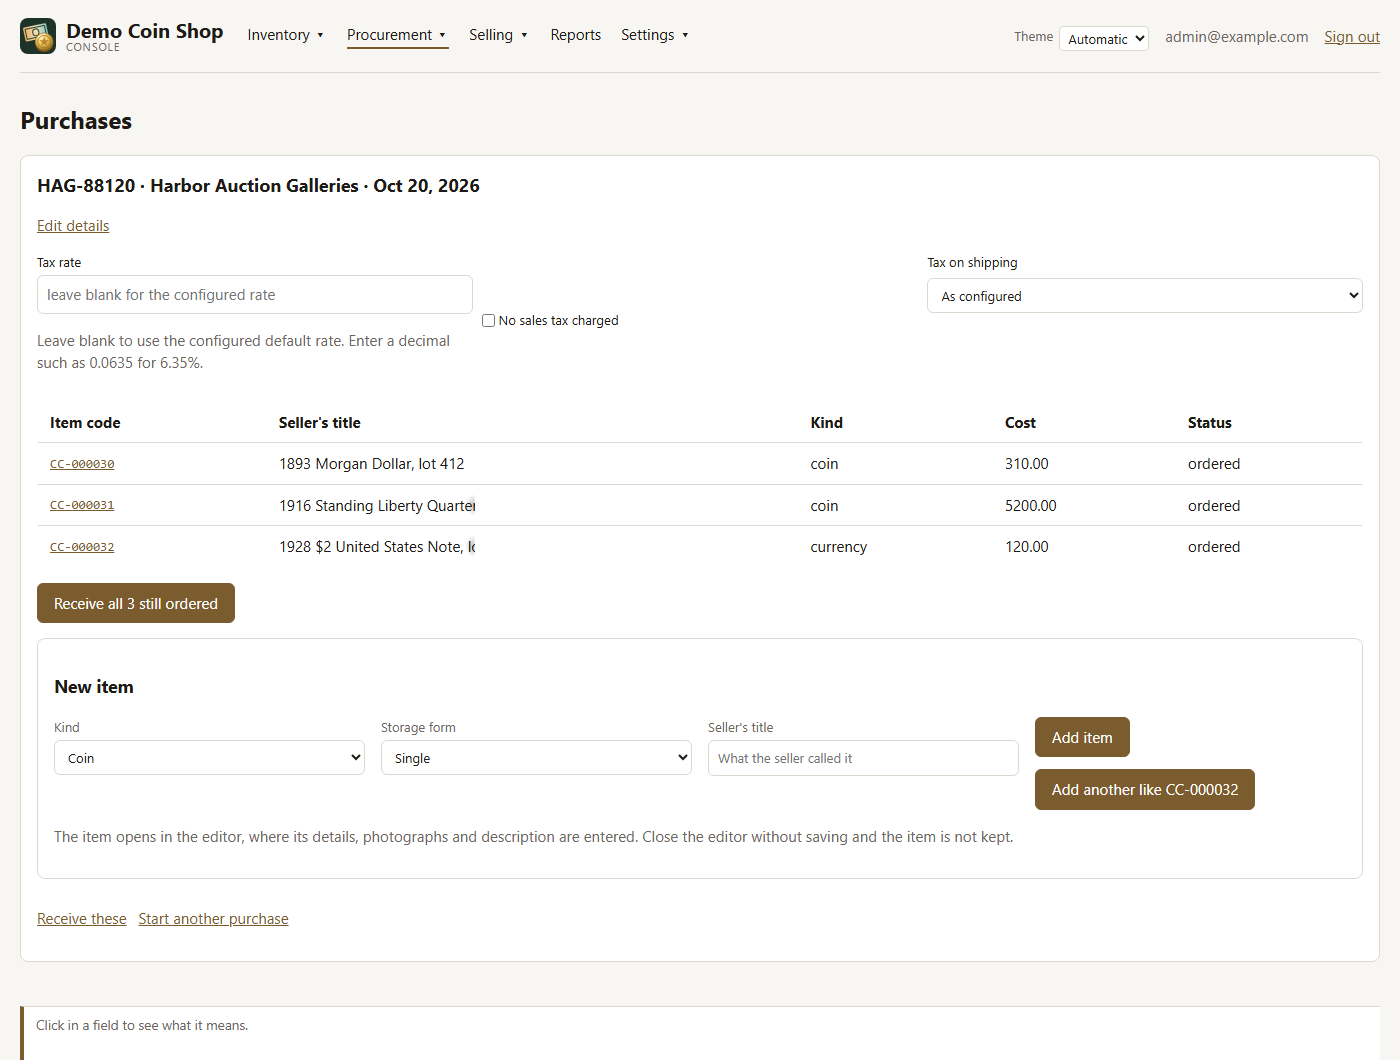
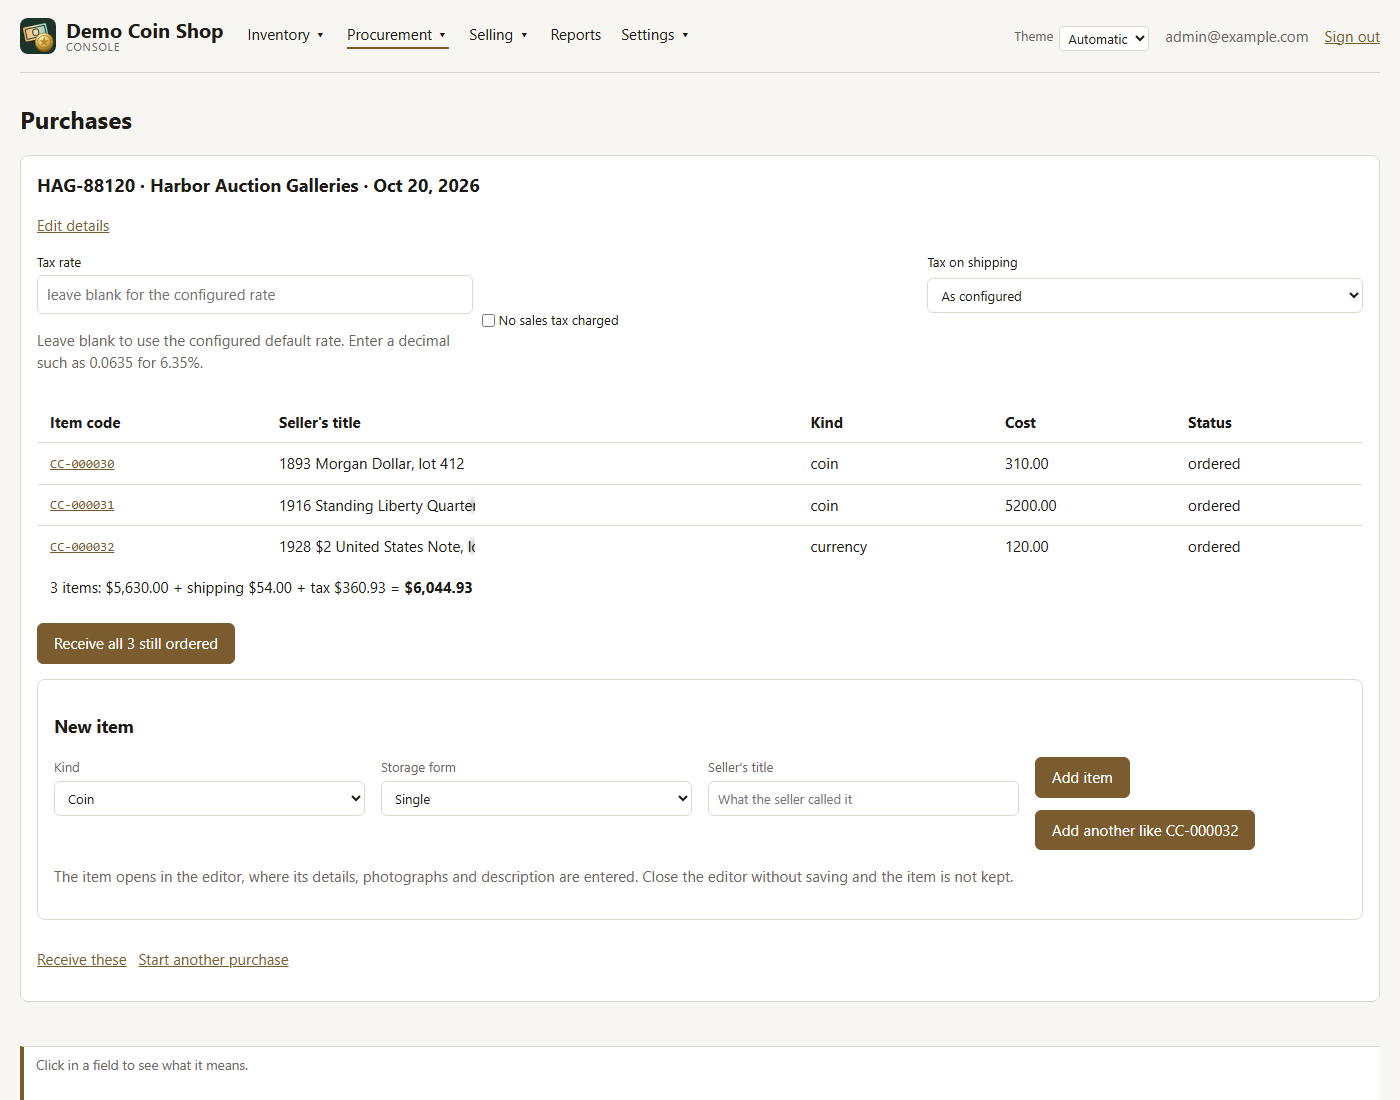
An open purchase totals its items
Under the Purchases page's items table, a total row adds up the lines'
item cost, shipping and sales tax, and what was paid in all -- each line's
total_cost, so it agrees to the penny with Order lookup's Cost for the
purchase. GET /api/purchase-orders/{id} returns the four amounts per line.
The screen guide's open purchase is retaken with it.

diff --git a/frontend/src/management/pages/NewPurchase.jsx b/frontend/src/management/pages/NewPurchase.jsx
@@ -14,7 +14,8 @@ import ReceiptPanel from './receiving/ReceiptPanel'
 import HelpScope from '../HelpScope'
 import { purchaseNumber } from '../purchase-number'
 import { matchesFilter, sortPurchases } from '../purchase-list'
-import { date } from '../../shared/format'
+import { centsOrZero, fromCents } from '../../shared/cents'
+import { date, money } from '../../shared/format'
 import { orNull } from '../../shared/text'
 import { SaveButton, SaveShortcut } from '../SaveButton'
 import SortHeaders from '../SortHeaders'
@@ -276,6 +277,34 @@ function PurchaseDetails({ purchase, onSaved }) {
  * opening in the item editor, and the form that adds the next. "Start
  * another purchase" clears all of it and returns to the choice.
  */
+/** Each line's `field`, in cents, added up. */
+function sumOf(lines, field) {
+  return lines.reduce((sum, line) => sum + centsOrZero(line[field]), 0)
+}
+
+/**
+ * The purchase's total row: what its items cost, their shipping and tax,
+ * and what was paid in all -- the same figure Order lookup shows as the
+ * purchase's Cost. Summed in cents, so no float rounding creeps in.
+ */
+function PurchaseTotal({ lines }) {
+  const items = sumOf(lines, 'item_cost')
+  const shipping = sumOf(lines, 'shipping_cost')
+  const tax = sumOf(lines, 'sales_tax')
+  const total = sumOf(lines, 'total_cost')
+  return (
+    <tfoot>
+      <tr className="purchase-total" data-help="purchase_total">
+        <td colSpan={5} data-label="Total">
+          {lines.length === 1 ? '1 item' : `${lines.length} items`}:{' '}
+          {money(fromCents(items))} + shipping {money(fromCents(shipping))} + tax{' '}
+          {money(fromCents(tax))} = <strong>{money(fromCents(total))}</strong>
+        </td>
+      </tr>
+    </tfoot>
+  )
+}
+
 export default function NewPurchase() {
   const rateId = useId()
   const [mode, setMode] = useState('new')
@@ -646,6 +675,9 @@ export default function NewPurchase() {
                   </tr>
                 )}
               </tbody>
+              {(purchase.lines ?? []).length > 0 && (
+                <PurchaseTotal lines={purchase.lines} />
+              )}
             </table>
 
             {/* As on Receiving: the parcel that arrived whole. A split

diff --git a/frontend/src/management/pages/NewPurchase.test.jsx b/frontend/src/management/pages/NewPurchase.test.jsx
@@ -751,6 +751,49 @@ describe('NewPurchase: items on the purchase', () => {
     expect(within(row).getByText('ordered')).toBeInTheDocument()
   })
 
+  it('totals the items: cost, shipping, tax and what was paid', async () => {
+    const line = (id, item, shipping, tax, total) => ({
+      id,
+      item_code: `CC-00000${id}`,
+      source_title: 'Morgan dollar',
+      item_kind: 'coin',
+      item_cost: item,
+      shipping_cost: shipping,
+      sales_tax: tax,
+      total_cost: total,
+      status: 'ordered',
+    })
+    api.createPurchaseOrder.mockResolvedValue({
+      ...FRESH_PURCHASE,
+      lines: [
+        line(1, '25.10', '4.00', '1.76', '30.86'),
+        line(2, '1000.20', '0.00', '70.01', '1070.21'),
+      ],
+    })
+    const user = userEvent.setup()
+    renderWithProviders(<NewPurchase />)
+    const vendorSelect = await screen.findByRole('combobox', { name: 'Vendor' })
+    await user.selectOptions(vendorSelect, '3')
+    await user.click(screen.getByRole('button', { name: /create purchase/i }))
+
+    const total = (await screen.findByText(/2 items:/)).closest('td')
+    expect(total).toHaveTextContent(
+      '2 items: $1,025.30 + shipping $4.00 + tax $71.77 = $1,101.07',
+    )
+  })
+
+  it('shows no total for a purchase with no items yet', async () => {
+    api.createPurchaseOrder.mockResolvedValue({ ...FRESH_PURCHASE, lines: [] })
+    const user = userEvent.setup()
+    renderWithProviders(<NewPurchase />)
+    const vendorSelect = await screen.findByRole('combobox', { name: 'Vendor' })
+    await user.selectOptions(vendorSelect, '3')
+    await user.click(screen.getByRole('button', { name: /create purchase/i }))
+
+    await screen.findByText('No items entered yet.')
+    expect(screen.queryByText(/items?:/)).not.toBeInTheDocument()
+  })
+
   it('offers a Receive these link built from the router, not a hard-coded shop path', async () => {
     // The console mounts at basename "/management" (management/main.jsx); a `<Link>`
     // folds that into the rendered href, while a hard-coded

diff --git a/frontend/src/management/fieldHelp.js b/frontend/src/management/fieldHelp.js
@@ -112,6 +112,13 @@ export const FIELD_HELP = {
       'Whether the tax was charged on shipping as well as on the price. States ' +
       'differ; "As configured" uses the default setting.',
   },
+  purchase_total: {
+    title: 'Total',
+    text:
+      "What the purchase's items cost, their shipping and sales tax, and what " +
+      'was paid in all: the same figure Order lookup shows as its Cost. A ' +
+      'deleted item is not counted.',
+  },
   // -- an item --------------------------------------------------------------
   item_kind: {
     title: 'Kind',

diff --git a/backend/app/schemas.py b/backend/app/schemas.py
@@ -2697,6 +2697,11 @@ class PurchaseOrderLineOut(BaseModel):
     #: unknown.
     item_kind: str
     item_cost: Decimal
+    #: What the purchase's total row adds up, with `item_cost`; the same
+    #: `total_cost` Order lookup sums for the purchase's Cost.
+    shipping_cost: Decimal
+    sales_tax: Decimal
+    total_cost: Decimal
     #: An `item_status` code: ordered, received, canceled, returned, missing,
     #: unknown.
     status: str

diff --git a/backend/tests/test_acquisitions.py b/backend/tests/test_acquisitions.py
@@ -129,6 +129,9 @@ def test_a_line_carries_its_title_and_kind(
     line = res.json()["lines"][0]
     assert line["source_title"] == "Series 1928 $1 Silver Certificate"
     assert line["item_kind"] == "currency"
+    # What the purchase's total row adds up.
+    for money in ("item_cost", "shipping_cost", "sales_tax", "total_cost"):
+        assert money in line, money
 
 
 def test_an_unknown_order_is_a_404(

diff --git a/backend/app/routers/acquisitions.py b/backend/app/routers/acquisitions.py
@@ -382,6 +382,9 @@ def get_purchase_order(
                 description=item.description,
                 item_kind=item.item_kind.code,
                 item_cost=item.item_cost,
+                shipping_cost=item.shipping_cost,
+                sales_tax=item.sales_tax,
+                total_cost=item.total_cost,
                 status=item.status.code,
             )
             for item in items

diff --git a/docs/ui-guide.md b/docs/ui-guide.md
@@ -286,14 +286,16 @@ and pick it from the list:
 
 ![Choosing an existing purchase](images/ui-guide/purchase_existing.png)
 
-An open purchase lists its items and takes more under **New item**. A kind and a
+An open purchase lists its items, with a total row under them -- item cost,
+shipping, tax and what was paid in all, the figure Order lookup shows as its
+Cost -- and takes more under **New item**. A kind and a
 title make the item and open it in the editor. **Add another like** starts the
 next one from what items on the same order usually share. When two or more items
 are still ordered, **Receive all N still ordered** under the table receives the
 whole parcel here, in the same dialog as Receiving's. **Receive these** goes to
 Receiving for this purchase, to receive line by line.
 
-![An open purchase with three items still ordered, Receive all under them, and the New item form](images/ui-guide/purchase_open.png)
+![An open purchase with three items still ordered, their total, Receive all under them, and the New item form](images/ui-guide/purchase_open.png)
 
 The fields of a purchase and of its New item form:
 

diff --git a/docs/system-administration.md b/docs/system-administration.md
@@ -882,6 +882,10 @@ holding one item (`docs/specs/entry-panels-design.md`).
   defaults;
   the exact list is in
   [specs/entry-panels-design.md](specs/entry-panels-design.md) (*New item*).
+- **The total row** under the items table adds up the lines' item cost,
+  shipping and sales tax, and their `total_cost` -- what was paid, the same
+  figure Order lookup shows as the purchase's Cost (`GET
+  /api/purchase-orders/{id}` returns each line's four amounts).
 - **Receive all N still ordered**, under the items table when two or more
   lines are still `ordered`, receives them in place: the same dialog and
   all-or-nothing request as Receiving's (below), after which the purchase is
